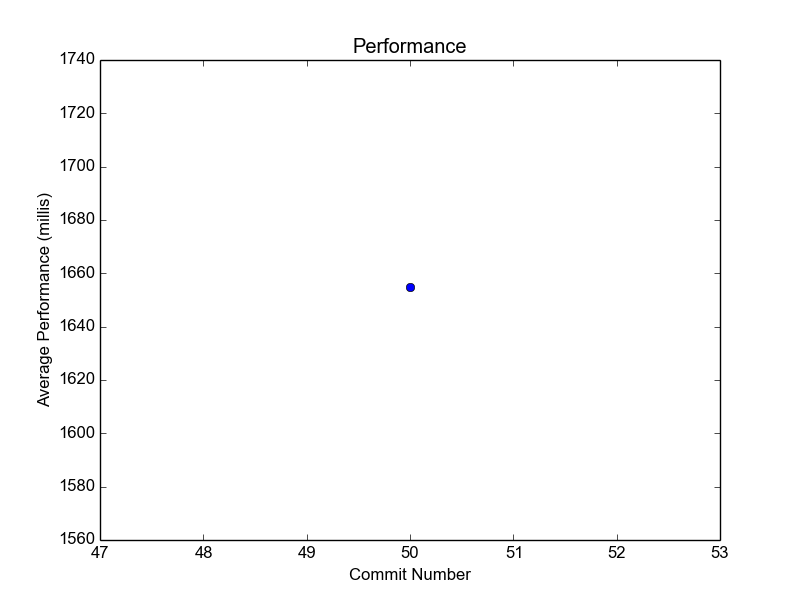
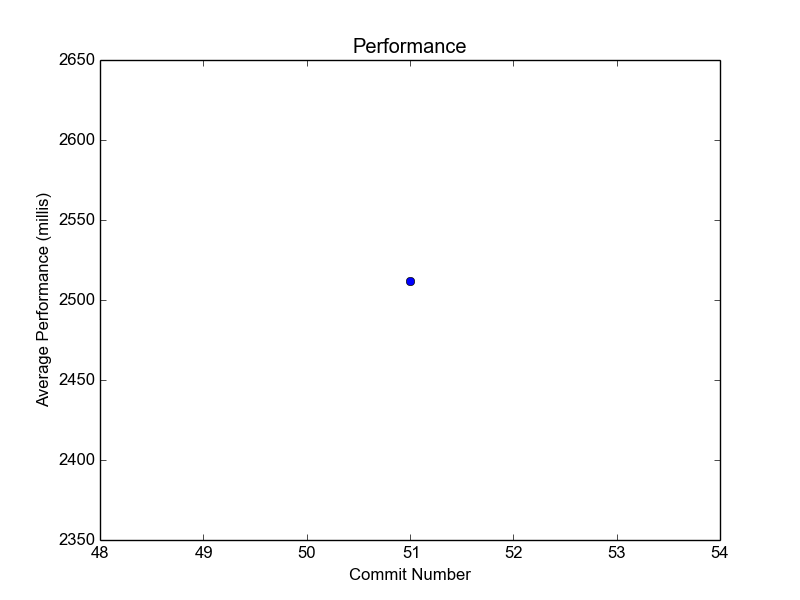
Intermediate commit, adding in forgiveness prediction

diff --git a/gameRunner.c b/gameRunner.c
@@ -60,7 +60,7 @@ void runHumanVsHuman(void) {
 	destroyState(state);
 }
 
-void runHumanVsComputer(int rollouts) {
+void runHumanVsComputer(int rollouts, int lengthOfGame) {
 	State *state = createState();
 
 	char *colors[2] = { "Black", "White" };
@@ -73,7 +73,7 @@ void runHumanVsComputer(int rollouts) {
 		for (int i = 0; i < 2; i++) {
 			displayState(state);
 			if (i == compTurn) {  // Could also put this body into function
-				int move = uctSearch(state, rollouts); 
+				int move = uctSearch(state, rollouts, lengthOfGame); 
 				printf("%s chooses move: %d\n", colors[i], move);  // Shoud translate to string move ^^^
 				status = state->blackPassed && move == MOVE_PASS;
 				makeMove(state, move);
@@ -91,7 +91,7 @@ void runHumanVsComputer(int rollouts) {
 	destroyState(state);
 }
 
-void runComputerVsComputer(int rollouts) {	
+void runComputerVsComputer(int rollouts, int lengthOfGame) {	
 	srand(time(NULL));  // Make sure I'm seeding everywhere good ^^^
 
 	State *state = createState();
@@ -102,7 +102,7 @@ void runComputerVsComputer(int rollouts) {
 	while (!status) {
 		for (int i = 0; i < 2; i++) {
 			displayState(state);
-			int move = uctSearch(state, rollouts); 
+			int move = uctSearch(state, rollouts, lengthOfGame); 
 			printf("%s chooses move: %d\n", colors[i], move);
 			status = state->blackPassed && move == MOVE_PASS;
 			makeMove(state, move);
@@ -115,7 +115,7 @@ void runComputerVsComputer(int rollouts) {
 }
 
 // Rand must already be initialized
-int runComputerVsRandom(int rollouts) {
+int runComputerVsRandom(int rollouts, int lengthOfGame) {
 	State *state = createState();
 
 	int compTurn = rand() % 2;  // 0 for black, 1 for white
@@ -125,7 +125,7 @@ int runComputerVsRandom(int rollouts) {
 		for (int i = 0; i < 2; i++) {
 			int move;
 			if (i == compTurn) {  // AI move
-				move = uctSearch(state, rollouts); 
+				move = uctSearch(state, rollouts, lengthOfGame); 
 			} else {  // Random move
 				Moves *moves = getMoves(state);
 				move = moves->array[rand() % moves->count];
@@ -156,7 +156,7 @@ int runComputerVsRandom(int rollouts) {
 	}
 }
 
-int testComputer(int iterations, int rollouts) {
+int testComputer(int iterations, int rollouts, int lengthOfGame) {
 	srand(time(NULL));	
 
 	int compWon = 0;
@@ -165,7 +165,7 @@ int testComputer(int iterations, int rollouts) {
 
 	const int interval = 1;
 	for (int i = 0; i < iterations; i++) {
-		int result = runComputerVsRandom(rollouts);
+		int result = runComputerVsRandom(rollouts, lengthOfGame);
 		switch (result) {
 			case 1:
 				compWon += 1;
@@ -196,24 +196,24 @@ int testComputer(int iterations, int rollouts) {
 
 	double totalScore = compWon + draws*0.5;  // Really rudimentary for now ^^
 
-	return totalScore > 0.8*iterations;  // Means it won a lot
+	return totalScore > 0.9*iterations;  // Means it won a lot
 }
 
 // Finds a single move, measures how long
-void runTrial(int rollouts) {	
+void runTrial(int rollouts, int lengthOfGame) {	
 	State *state = createState();
 
-	int move = uctSearch(state, rollouts); 
+	int move = uctSearch(state, rollouts, lengthOfGame); 
 	makeMove(state, move);
 
 	destroyState(state);	
 }
 
-void timeTrials(int warmupTrials, int trials, int rollouts) {
+void timeTrials(int warmupTrials, int trials, int rollouts, int lengthOfGame) {
 	srand(time(NULL));
 
 	for (int i = 0; i < warmupTrials; i++) {  // Just to warm up the CPU
-		runTrial(rollouts);
+		runTrial(rollouts, lengthOfGame);
 	}
 
 	double totalTime = 0;
@@ -221,7 +221,7 @@ void timeTrials(int warmupTrials, int trials, int rollouts) {
 	Timer timer;
 	for (int i = 0; i < trials; i++) {
 		startTimer(&timer);
-		runTrial(rollouts);
+		runTrial(rollouts, lengthOfGame);
 		stopTimer(&timer);
 
 		double elapsedTime = timeElapsed(&timer);

diff --git a/uct.c b/uct.c
@@ -82,9 +82,7 @@ void destroyUctNode(UctNode *v) {
 }
 
 // Returns the best move
-int uctSearch(State *state, int rollouts) {
-	const int lengthOfGame = 250;  // IRDK ^^^
-
+int uctSearch(State *state, int rollouts, int lengthOfGame) {
 	UctNode *root = createRootUctNode(state);
 	int rootTurn = state->turn;
 	for (int i = 0; i < rollouts; i++) {
@@ -145,7 +143,6 @@ UctNode *expand(State *state, UctNode *v) {
 }
 
 // Returns the best child by the UCB1 algorithm
-// This should be good
 UctNode *bestChild(UctNode *v, double c) {
 	double bestReward = INT_MIN;  // INT_MIN?   /// CRAAPPPPPPPPPPPPPP, it wass originally an int
 	int bestChildIndex = 0;  // There is always at least 1 child, so this will be filled
@@ -179,35 +176,41 @@ double defaultPolicy(int rootTurn, State *state, int lengthOfGame, UctNode *v) {
 	int color = state->turn;
 	State *playoutCopy = copyState(state);
 
+	static int numMoves = -1;  // From from static to saved pointer (because need to reset on different uctSearch calls)
+
 	if (!v->terminal) {
-		for (int i = 0; i < lengthOfGame; i++) {
+		for (int i = 0; i < lengthOfGame; i++) {  // At some point, this is going to have to be dynamic
 			int blackPassed = playoutCopy->blackPassed;
-			Moves *moves = getMoves(playoutCopy);  // It sucks that I have to keep calling getMoves, maybe there's a way to speed it up by passing in moves? ^^^
-			int randomIndex = rand() % moves->count;
-			int randomMove = moves->array[randomIndex];
-			makeMove(playoutCopy, randomMove);
-			free(moves);
-			moves = NULL;
+
+			int randomMove = -2;
+			if (numMoves == -1 || numMoves < 100) {  // Magically hardcoded ^^^, need to adjust for board size
+				Moves *moves = getMoves(playoutCopy);  // It sucks that I have to keep calling getMoves, maybe there's a way to speed it up by passing in moves? ^^^
+				int randomIndex = rand() % moves->count;
+				randomMove = moves->array[randomIndex];
+				makeMove(playoutCopy, randomMove);
+				//numMoves = moves->count;
+				free(moves);
+				moves = NULL;
+			}
+			else {  // Better to do it first and ask forgiveness later.
+				int counter = 0;
+				do {
+					randomMove = rand() % (BOARD_SIZE+1);
+					counter += 1;
+				} while (!isLegalMove(playoutCopy, randomMove));  // Need to keep track of how many times it took ^^^^ (so we know if we should do it the next iteration)
+				makeMove(playoutCopy, randomMove);
+				numMoves = 361-counter;
+				if (numMoves < 0) {
+					numMoves = 0;
+				}
+			}
 
 			// This means if both players randomly pass in the middle of the game, we stop
 			if (randomMove == MOVE_PASS && blackPassed) {  // I.e. if the last move was a pass by white (so the turn just became black), and black had also passed
 				break;  // We're done
 			}
 
-			// int randomMove;
-			// if (i >= 100) {
-			// 	Moves *moves = getMoves(playoutCopy);  // It sucks that I have to keep calling getMoves, maybe there's a way to speed it up by passing in moves? ^^^
-			// 	int randomIndex = rand() % moves->count;
-			// 	randomMove = moves->array[randomIndex];
-			// 	free(moves);
-			// 	moves = NULL;
-			// }
-			// else {  // Better to do it first and ask forgiveness later.
-			// 	do {
-			// 		randomMove = rand() % (BOARD_SIZE+1);
-			// 	} while (!isLegalMove(playoutCopy, randomMove));
-			// }
-			// makeMove(playoutCopy, randomMove);
+			//depth += 1;
 		}
 	}
 	

diff --git a/gameRunner.h b/gameRunner.h
@@ -19,19 +19,19 @@ int promptHuman(State *state, char *color);
 void runHumanVsHuman(void);
 
 // For the moment, rollouts is a hard count, but later time will be factored in ^^^
-void runHumanVsComputer(int rollouts);
+void runHumanVsComputer(int rollouts, int lengthOfGame);
 
-void runComputerVsComputer(int rollouts);
+void runComputerVsComputer(int rollouts, int lengthOfGame);
 
 // Used for testing.  Returns 1 if the computer won, 0 if draw, -1 if lost
-int runComputerVsRandom(int rollouts);
+int runComputerVsRandom(int rollouts, int lengthOfGame);
 
 // Returns 0 if computer passes (wins sufficient number of games)
-int testComputer(int iterations, int rollouts);
+int testComputer(int iterations, int rollouts, int lengthOfGame);
 
-void runTrial(int rollouts);
+void runTrial(int rollouts, int lengthOfGame);
 
 // Writes the average time in millis to the default performance file
-void timeTrials(int warmupTrials, int trials, int rollouts);
+void timeTrials(int warmupTrials, int trials, int rollouts, int lengthOfGame);
 
 #endif

diff --git a/configParser.c b/configParser.c
@@ -8,6 +8,7 @@ Config *getDefaultConfig(void) {
 	config->tests = 25;  // The random vs cpu tests
 	config->trials = 5;  // The time trials
 	config->warmupTrials = 2;  // To warm up the cpu for the time trials
+	config->averageLengthOfGame = 350;  // Eh, no idea
 	config->unitRandomMakeUnmakeTests = 1000;  // Wow, this is a long name
 
 	return config;
@@ -80,6 +81,13 @@ int updateConfig(Config *config, char *variableName, int value) {
 			return 1;
 		}
 		config->warmupTrials = value;
+		return 0;
+	} else if (!strcmp(variableName, "averageLengthOfGame")) {
+		if (value < 1) {
+			ERROR_PRINT("Average length of game must be greater than 0, got: %d", value);
+			return 1;
+		}
+		config->averageLengthOfGame = value;
 		return 0;
 	} else if (!strcmp(variableName, "unitRandomMakeUnmakeTests")) {
 		if (value < 1) {

diff --git a/ergo.c b/ergo.c
@@ -90,16 +90,16 @@ int main(int argc, char **argv) {
 			runHumanVsHuman();
 			break;
 		case HVC:
-			runHumanVsComputer(config->rollouts);
+			runHumanVsComputer(config->rollouts, config->averageLengthOfGame);
 			break;
 		case CVC:
-			runComputerVsComputer(config->rollouts);
+			runComputerVsComputer(config->rollouts, config->averageLengthOfGame);
 			break;
 		case CVR:
-			return testComputer(config->tests, config->rollouts);
+			return testComputer(config->tests, config->rollouts, config->averageLengthOfGame);
 			break;
 		case TIME:
-			timeTrials(config->warmupTrials, config->trials, config->rollouts);
+			timeTrials(config->warmupTrials, config->trials, config->rollouts, config->averageLengthOfGame);
 			break;
 		case NONE:
 		default:

diff --git a/perf/processPerf.py b/perf/processPerf.py
@@ -1,4 +1,5 @@
 # This is good enough for now, boy I suck at python
+# Might be an issue if just one entry
 
 import numpy as np
 import matplotlib.pyplot as plt
@@ -7,7 +8,7 @@ import operator as op
 import sys
 from matplotlib.ticker import MaxNLocator
 
-perfGraph = "performance.png"
+perfGraph = "perf/performance.png"
 
 inputFileName = sys.argv[1]
 
@@ -22,8 +23,6 @@ finalData = []
 for key, group in it.groupby(parsedData, key=lambda x: x[0]):
 	group, copy = it.tee(group)
 	finalData.append((key, sum(y for _,y in group)/len(list(copy))))
-
-print finalData
 
 fig, ax = plt.subplots()
 

diff --git a/uct.h b/uct.h
@@ -17,6 +17,10 @@
 
 #define UCT_CONSTANT 1.41 // This is the C_p=sqrt(2) term
 
+#ifndef SYSTEM_CORES
+#define SYSTEM_CORES 4
+#endif
+
 typedef struct UctNode {
 	int action;  // The move
 	double reward;  // Maybe just float...
@@ -46,7 +50,7 @@ void setChildren(UctNode *parent, Moves *moves, State *state);
 void destroyUctNode(UctNode *v);
 
 // Returns the best move
-int uctSearch(State *state, int rollouts);
+int uctSearch(State *state, int rollouts, int lengthOfGame);
 
 // Finds non-terminal node
 UctNode *treePolicy(State *state, UctNode *v, int lengthOfGame);

diff --git a/configParser.h b/configParser.h
@@ -16,6 +16,7 @@ typedef struct {
 	int tests;
 	int trials;
 	int warmupTrials;
+	int averageLengthOfGame;
 	int unitRandomMakeUnmakeTests;
 } Config;
 
